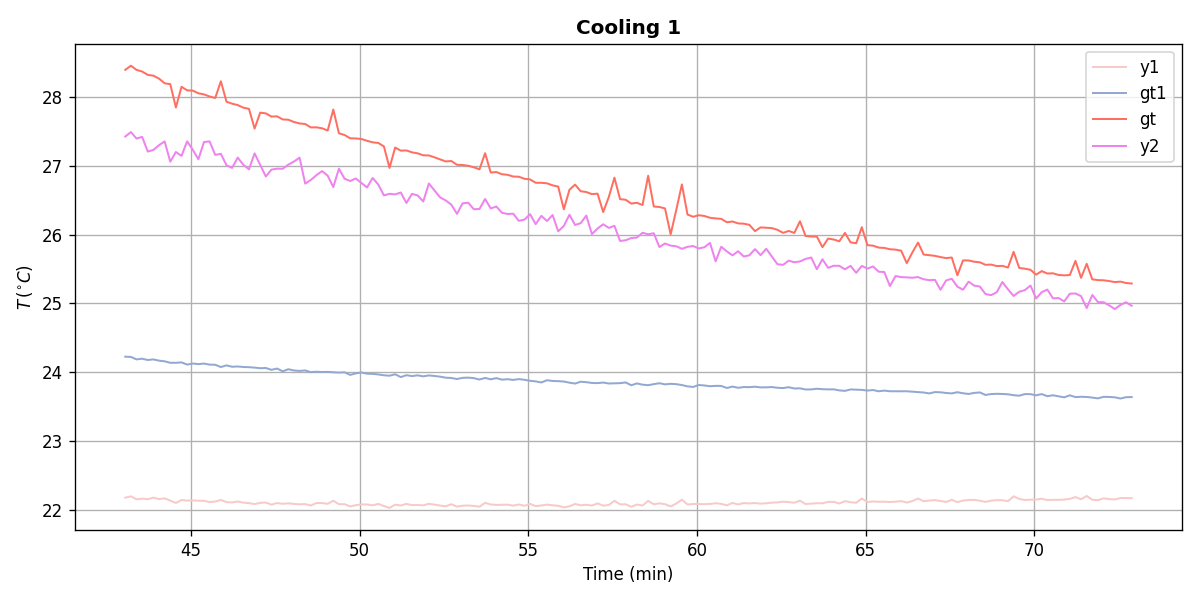
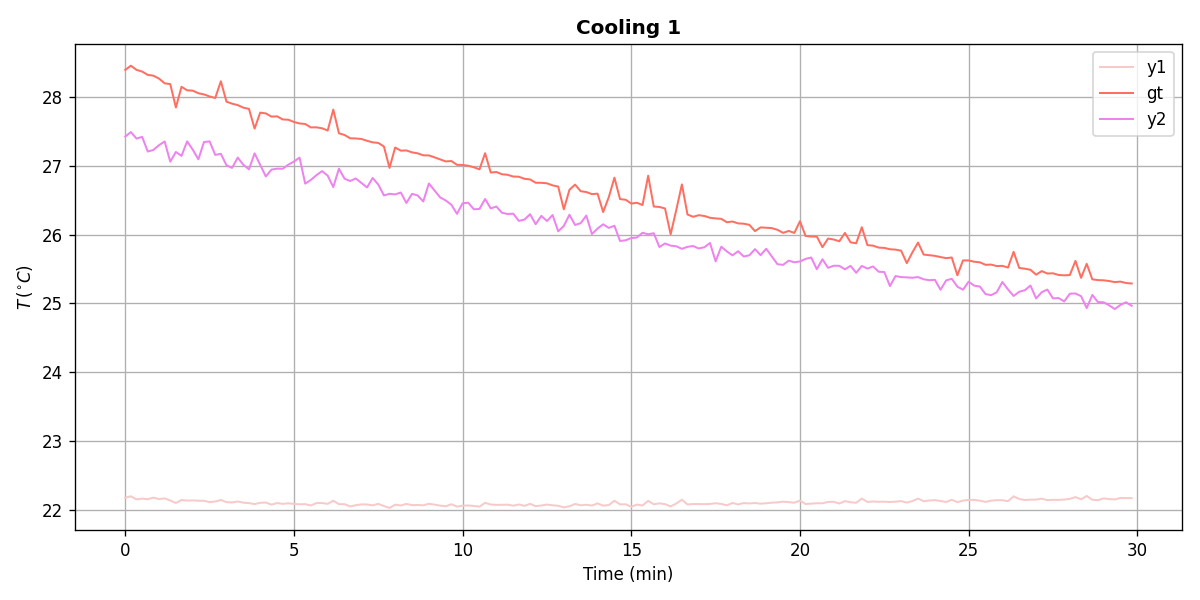
update tests

diff --git a/src/visualize_measurements.py b/src/visualize_measurements.py
@@ -30,13 +30,14 @@ os.makedirs(tests_dir, exist_ok=True)
 
 config = OmegaConf.load(f"{conf_dir}/config_run.yaml")
 
-file_path = f"{src_dir}/data/vessel/20240930_3.txt"
-timeseries_data = uu.load_measurements(file_path)
+
 # print(timeseries_data.keys())
 exp_strs = ["meas_cool_1", "meas_cool_2"]
 
 for exp_str in exp_strs:
     meas = getattr(config.experiment_type, exp_str)
+    file_path = f"{src_dir}/data/vessel/{meas.date}.txt"
+    timeseries_data = uu.load_measurements(file_path)
 
     keys_to_neglect = [11, 13, 47, 65, 26]
     default_tc = {10:'y1', 45:'gt1', 66:'gt', 24:'y2'}
@@ -70,8 +71,8 @@ for exp_str in exp_strs:
         markersize = [1] * len(markers)
         markersize = [7] * len(markers)
 
-        pp.plot_generic(x=x, y=y, title=f"Test {pt_lbl}", xlabel="Time (s)", ylabel="Temperature (°C)", 
-                        filename=f"{tests_dir}/meas_cool_bone_tum/visualize_{exp_str}_{pt_lbl}.png", legend_labels=labels, 
+        pp.plot_generic(x=x, y=y, title=f"Test {pt_lbl} {meas.title}", xlabel="Time (min)", ylabel="Temperature (°C)", 
+                        filename=f"{tests_dir}/{exp_str}/visualize_{exp_str}_{pt_lbl}.png", legend_labels=labels, 
                         colors=colors, markers=markers, markersizes=markersize, markevery=20)
 
 

diff --git a/src/import_data.py b/src/import_data.py
@@ -35,13 +35,16 @@ def main(meas, rescale, save_pickle, show_y3=False):
         x_vals = np.vstack(([df['t']/60]*5)).T
         y_vals = np.vstack((df['y1'],df['gt1'],df['gt'],df['y2'],df['y3'])).T
         labels = ["y1","gt1","gt","y2","y3"]
-        colors = conf.plot.colors.measuring_points
-        linestyles = conf.plot.linestyles.measuring_points
+        plot_params = uu.get_plot_params(conf)
+        colors = [plot_params[pt_lbl]['color'] for pt_lbl in labels]
+        linestyles = ['-']*len(labels)
 
     else:
-        x_vals = np.vstack(([df['t']/60]*4)).T
-        y_vals = np.vstack((df['y1'],df['gt1'],df['gt'],df['y2'])).T
-        labels = ["y1","gt1","gt","y2"]
+        x_vals = np.vstack(([(df['t']-df['t'][0])/60]*4)).T
+        # y_vals = np.vstack((df['y1'],df['gt1'],df['gt'],df['y2'])).T
+        # labels = ["y1","gt1","gt","y2"]
+        y_vals = np.vstack((df['y1'],df['gt'],df['y2'])).T
+        labels = ["y1","gt","y2"]
         plot_params = uu.get_plot_params(conf)
         colors = [plot_params[pt_lbl]['color'] for pt_lbl in labels]
         linestyles = ['-']*len(labels)
